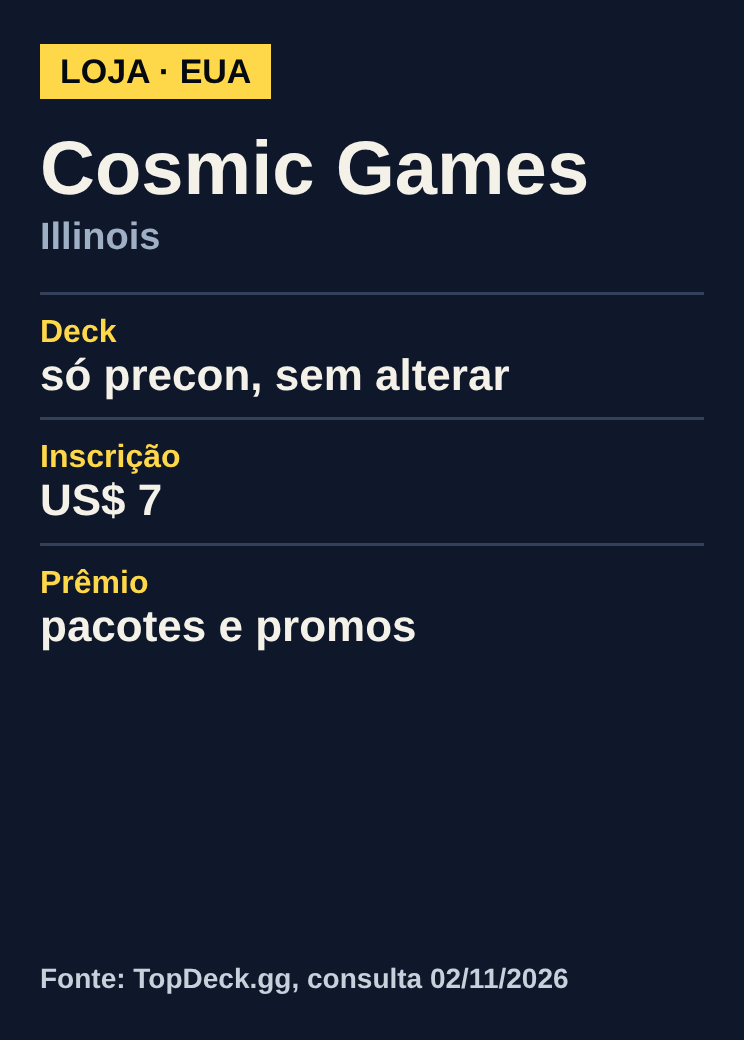
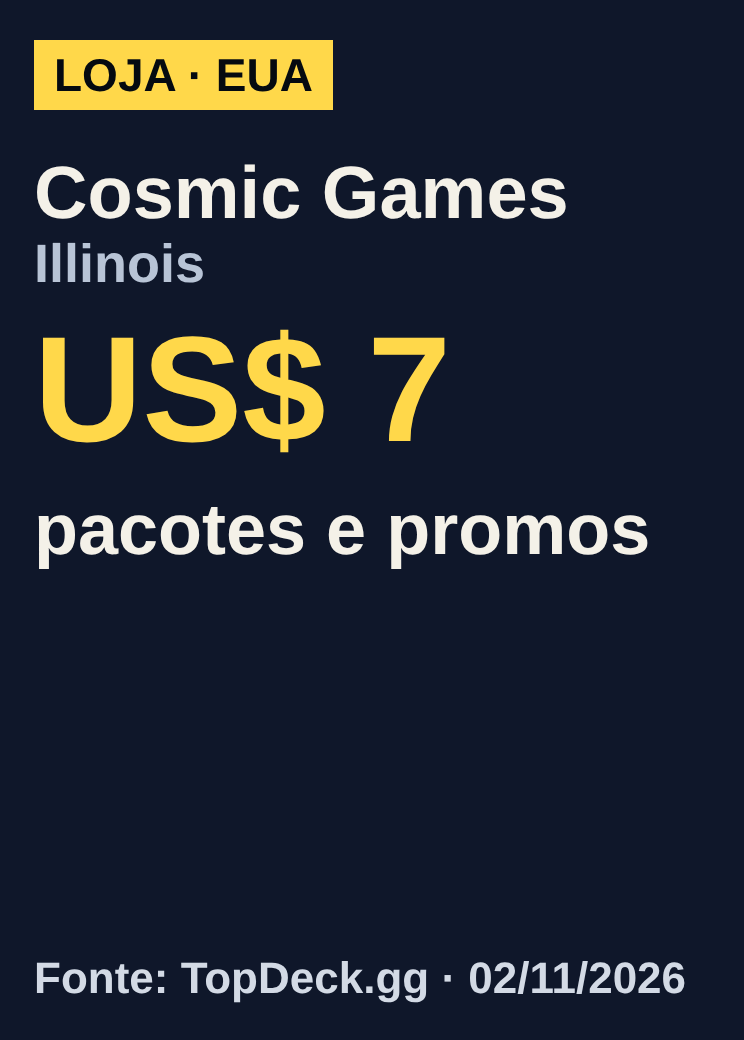
Mana & Burn: TV analógica BINDER e TV nunca cortada
Motor: chassis inteiro em todos os planos, sinal fora do ar animado e placa de fabricante.
Especial Precon em jogo: fichas refeitas e janelas fora do ar.

Claude-Session: https://claude.ai/code/session_016gdr9gR6rti7MxFj4rs6y7

diff --git a/manaburn/index.html b/manaburn/index.html
@@ -91,6 +91,33 @@ function staticSVG(cs,seed,uid){ if(!cs||cs.burst<=0) return '';
     <feComponentTransfer><feFuncR type="linear" slope="2.2" intercept="-0.55"/><feFuncG type="linear" slope="2.2" intercept="-0.55"/><feFuncB type="linear" slope="2.2" intercept="-0.5"/><feFuncA type="linear" slope="0" intercept="1"/></feComponentTransfer></filter></defs>
     <rect x="${X}" y="${Y}" width="${W}" height="${H}" fill="#222"/><rect x="${X}" y="${Y}" width="${W}" height="${H}" filter="url(#tvn${uid}${seed})"/>${bands}${osd}</g>`; }
 const CARD={x:742,y:554.6,w:136.3,h:190};
+// ---------- TV ANALÓGICA BINDER (manaburn/LEIA-ME.md): marca no chassis e sinal fora do ar ----------
+const TVLOGO=EP.tvLogo===undefined?'logo/binder_fabricante.png':EP.tvLogo; let LOGO_OK=false, LOGO_DONE=!TVLOGO;
+const NS={x:82,y:684,w:698,h:558,rx:58,W:349,H:279};           // vidro do CRT (coordenadas do plano da TV), um pouco para dentro da moldura
+const plateSVG=()=>LOGO_OK?`<g><rect x="926" y="694" width="92" height="92" rx="7" fill="#17130F" stroke="#8E8A7E" stroke-width="3"/><rect x="931" y="699" width="82" height="82" rx="5" fill="none" stroke="#000" stroke-opacity=".55" stroke-width="2"/><image href="${TVLOGO}" x="936" y="704" width="72" height="72" opacity=".92"/></g>`:'';
+const noiseSVG=(id)=>`<foreignObject x="${NS.x}" y="${NS.y}" width="${NS.w}" height="${NS.h}" id="nf${id}" style="display:none"><canvas xmlns="http://www.w3.org/1999/xhtml" id="nc${id}" width="${NS.W}" height="${NS.H}" style="display:block;width:${NS.w}px;height:${NS.h}px;border-radius:${NS.rx}px;image-rendering:auto"></canvas></foreignObject>`;
+function rng(a){ return ()=>{ a|=0; a=a+0x6D2B79F5|0; let t=Math.imul(a^a>>>15,1|a); t=t+Math.imul(t^t>>>7,61|t)^t; return ((t^t>>>14)>>>0)/4294967296; }; }
+const NSIMG={}; const nsCtx=c=>{ const x=c.getContext('2d'); return [x,NSIMG[c.id]||(NSIMG[c.id]=x.createImageData(NS.W,NS.H))]; };
+// quadro determinístico: só depende de t. Listras rolantes (velocidade contínua), estática, tracking de VHS, scanlines e fósforo.
+function noSignal(c,t,a){ const [x,im]=nsCtx(c), d=im.data, W=NS.W, H=NS.H, f=Math.round(t*30), r=rng(f*2654435761+7);
+  const flick=0.95+0.05*Math.sin(t*7.3)+0.03*Math.sin(t*19.1);
+  const B=[[0.19,46,70],[0.083,28,-38],[0.31,16,52]].map(([v,w,g],k)=>[((t*v+k*.37)%1)*(H+2*w)-w,w,g]);
+  const T=(t*0.11+.2)%1*H, T2=(t*0.047+.65)%1*H, jit=(r()<0.12?(r()-.5)*26:0);
+  for(let y=0;y<H;y++){ let g0=84; B.forEach(([b,w,g])=>{ const q=(y-b)/w; g0+=g*Math.exp(-q*q); });
+    const dT=Math.abs(y-T), dT2=Math.abs(y-T2), tear=dT<7?1-dT/7:(dT2<3?.6:0), sh=Math.round(tear*(10+r()*30)+jit*(dT<40?1:0)), sl=y%2?0.84:1;
+    const vy=(y/H-.5)*2, st=(r()-.5)*(tear?30:12);
+    for(let i=0;i<W;i++){ const i2=(i+sh+W)%W, vx=(i2/W-.5)*2, vig=1-.36*(vx*vx+vy*vy)*.5*(1+vx*vx*vy*vy);
+      let n=(r()-.5)*96+st; if(tear&&r()<.22*tear) n+=120; const v=Math.max(0,(g0+n)*flick*sl*vig), p=(y*W+i)*4;
+      d[p]=v; d[p+1]=v*.985; d[p+2]=v*.94; d[p+3]=255; } }
+  x.putImageData(im,0,0); c.style.opacity=a; }
+// janelas fora do ar: EP.foraDoAr=[[fala_ini,fala_fim],...] (0-based) e, sem nada para mostrar, o ecrã inteiro
+function foraAlpha(t,i,cs){ const T=EP.foraDoAr; if(t>=T_SLAM+.44) return 0;
+  if(T){ const w=T.find(q=>i>=q[0]&&i<=q[1]); if(w){ const t0=LINES[w[0]].start; return clamp((t-t0)/0.3); } return 0; }
+  return (cs?!cs.img:!EP.card.img)?1:0; }
+function drawFora(t,i,cs,tvs){ const a=(cs&&cs.burst>0)?0:foraAlpha(t,i,cs), id=tvs?'S':'W', o=tvs?'W':'S';
+  const f=document.getElementById('nf'+id), g=document.getElementById('nf'+o); if(g) g.style.display='none';
+  if(!tvs){ const sc=document.getElementById('smallcard'); if(sc) sc.style.opacity=1-a; }
+  if(!f) return; if(a<=0){ f.style.display='none'; return; } f.style.display=''; noSignal(document.getElementById('nc'+id),t,a); }
 const K='#221C17';
 const S=(a)=>`stroke="${K}" stroke-width="${a||4.5}" stroke-linejoin="round" stroke-linecap="round"`;
 function tube(pts,col,w,ol=9){const d='M'+pts.map(p=>p.join(' ')).join(' L ');
@@ -442,6 +469,7 @@ function shot2Markup(st){
   ${st.cs&&st.cs.est?'':tvFX(st.fx,'s2')}
   ${(st.cs?st.cs.img:EP.card.img)?`<image href="${st.cs?st.cs.img:EP.card.img}" x="245" y="703" width="373" height="520" clip-path="url(#cardclip2)"/>`:''}
   ${st.hl>0&&st.hr?st.hr.rects.map(r=>`<rect x="${r.x-3}" y="${r.y-2}" width="${r.w+6}" height="${r.h+4}" rx="4" fill="none" stroke="#FFD84A" stroke-width="2.5" filter="url(#glow)" pathLength="100" stroke-dasharray="${100*st.hl} 100"/>`).join(""):""}
+  ${plateSVG()}
   ${staticSVG(st.cs,st.seed,'s')}
   <g filter="url(#rough2)">
    ${tube([[1100,1005],[1010,985],[920,969]],'#A4473B',58)}
@@ -451,9 +479,9 @@ function shot2Markup(st){
 // ---------- montagem ----------
 const world=document.getElementById('world'), shot2=document.getElementById('shot2'), fx=document.getElementById('fx');
 const tvEl=document.getElementById('tv'), dotEl=document.getElementById('dot'), logo=document.getElementById('logo'), sub=document.getElementById('sub');
-world.innerHTML = defs + `<g id="cam"><g filter="url(#rough)">${room}</g>${tvSmall}<g filter="url(#rough)">${tvSmallLine}${tvTop}</g><g id="tvfx" transform="translate(648.95 290.47) scale(0.373)"></g>${tvSmallCard}<g filter="url(#rough)">${couchBack}${couchFront}</g>
+world.innerHTML = defs + `<g id="cam"><g filter="url(#rough)">${room}</g>${tvSmall}<g filter="url(#rough)">${tvSmallLine}${tvTop}</g><g transform="translate(648.95 290.47) scale(0.373)"><g id="plateW"></g><g id="tvfx"></g>${noiseSVG('W')}</g>${tvSmallCard}<g filter="url(#rough)">${couchBack}${couchFront}</g>
   <g id="mana" filter="url(#rough2)"></g><g id="burn" filter="url(#rough2)"></g><g filter="url(#rough)">${table}</g></g>`;
-shot2.innerHTML = defs + '<g id="s2cam"><g id="s2"></g></g>';
+shot2.innerHTML = defs + `<g id="s2cam"><g id="s2"></g>${noiseSVG('S')}</g>`;
 fx.innerHTML = `<defs><radialGradient id="vig" cx="50%" cy="48%" r="70%"><stop offset="60%" stop-color="#000" stop-opacity="0"/><stop offset="100%" stop-color="#000" stop-opacity=".45"/></radialGradient></defs>
   ${defs}<rect width="1080" height="1920" filter="url(#grain)" opacity=".5"/><rect width="1080" height="1920" fill="url(#vig)"/>`;
 const tvfxG=world.querySelector('#tvfx');
@@ -471,7 +499,8 @@ const credEl=document.getElementById('cred'), CRED_BASE=EP.card.cred;
 if(EP.bug) document.querySelector('#bug .b').textContent=EP.bug;   // tarja do quadro: "PLANTÃO DO PREÇO", "ESPECIAL DE HALLOWEEN"…
 INSERTS.forEach((c,i)=>{const im=new Image(); im.onload=()=>{INS_OK[i]=true;}; im.onerror=()=>{INS_OK[i]=false;}; im.src=c.file; c.el=document.createElement('img'); c.el.src=c.file; insEl.appendChild(c.el);});
 {const g=new Image(); g.onload=()=>{document.getElementById('gplay').style.display='block';}; g.src='cards/google_play.png';}
-window.READY=()=>INSERTS.every((c,i)=>i in INS_OK) && (!(FX.scanner&&SCAN) || [...Array(SCAN_N).keys()].every(k=>k in SCAN_OK));
+if(TVLOGO){ const im=new Image(); im.onload=()=>{ LOGO_OK=true; LOGO_DONE=true; document.getElementById('plateW').innerHTML=plateSVG(); last=''; }; im.onerror=()=>{ LOGO_DONE=true; }; im.src=TVLOGO; }
+window.READY=()=>LOGO_DONE && INSERTS.every((c,i)=>i in INS_OK) && (!(FX.scanner&&SCAN) || [...Array(SCAN_N).keys()].every(k=>k in SCAN_OK));
 const TVSHOTS=['tv','tvtext','tvtext2','tv2'];
 // enquadramento dos planos da TV: a tela da TV (x 79–783) nunca sai do vídeo nas laterais nem sobe por baixo dos créditos
 const SCR={x:79,y:682,w:704,h:562}, MARG=10, FIT=(1080-2*MARG)/SCR.w;   // FIT ≈ 1,506: tela inteira na largura, com margem
@@ -479,16 +508,10 @@ function encaixa(c){ const s=Math.min(c.s,FIT); let cx=c.cx;
   const L=c.tx+s*(SCR.x-cx), R=c.tx+s*(SCR.x+SCR.w-cx);
   if(L<MARG) cx=SCR.x-(MARG-c.tx)/s; else if(R>1080-MARG) cx=SCR.x+SCR.w-(1080-MARG-c.tx)/s;
   return {s, cx, cy:c.cy, tx:c.tx, ty:c.ty}; }
-function s2Target(k,t){ const sh=POSE[k][6], l=LINES[k], p=clamp((t-l.start)/Math.max(.5,l.dur));
-  // zoom no texto: a tela inteira da TV ocupa a largura do vídeo (carta e TV SAL sem cortes), logo abaixo dos créditos
-  const HR=hlAt(k,sh); if(HR) { const r=HR, z=Math.min(r.zoom,FIT), c={s:z,cx:SCR.x+SCR.w/2,cy:SCR.y,tx:540,ty:300};
-    if(!FX.foco) return c;
-    // oracle_focus: quando o amarelo acende, aproxima devagar 7% (ease-out) e TERMINA no enquadramento acima:
-    // começa em z/1,07 e chega em z, com o topo da TV parado logo abaixo dos créditos. Nada sai pelas laterais.
-    const q=clamp((t-l.start-0.45)/Math.max(1.2,l.dur-0.45)), f=1+0.07*(1-Math.pow(1-q,3));
-    return {s:z/1.07*f, cx:c.cx, cy:c.cy, tx:c.tx, ty:c.ty}; }
-  if(sh==='tv2') return {s:1.12+0.04*p,cx:560,cy:963,tx:540,ty:960};
-  return {s:1+0.06*p,cx:432,cy:963,tx:432,ty:963}; }
+// REGRA DO FUNDADOR (02/11/2026): é proibido cortar a TV. O chassis inteiro (x -24 a 1102) cabe no vídeo em todos os planos da TV;
+// não há zoom na carta nem no texto (EP.hl continua a desenhar os destaques, o campo zoom é ignorado).
+const TV_S=(1080-2*MARG)/1126, TV_C={cx:539,cy:966,tx:540,ty:872};
+function s2Target(k,t){ const l=LINES[k], p=clamp((t-l.start)/Math.max(.5,l.dur)); return {s:TV_S*(0.975+0.025*p),...TV_C}; }
 function s2Cam(i,t){ let c=s2Target(i,t); const l=LINES[i];
   if(i>0 && TVSHOTS.includes(POSE[i-1][6]) && t-l.start<0.4){ const a=s2Target(i-1,l.start), q=ease(clamp((t-l.start)/0.4));
     c={s:a.s+(c.s-a.s)*q,cx:a.cx+(c.cx-a.cx)*q,cy:a.cy+(c.cy-a.cy)*q,tx:a.tx+(c.tx-a.tx)*q,ty:a.ty+(c.ty-a.ty)*q}; }
@@ -504,10 +527,10 @@ function blinking(arr,t){return arr.some(b=>t>=b&&t<b+0.12);}
 function camera(t,shot){
   const W={s:1,cx:540,cy:675,tx:540,ty:875};
   if(shot==='cuM') return {s:1.45,cx:235,cy:650,tx:520,ty:922};
-  if(shot==='cuB') return {s:1.5,cx:485,cy:700,tx:560,ty:832};
+  if(shot==='cuB') return {s:1.16,cx:485,cy:700,tx:404,ty:812};   // TV inteira no quadro (fundador, 02/11/2026)
   if(shot==='push'){ const i0=lineAt(t); let s0=i0, s1=i0; while(s0>0&&POSE[s0-1][6]==='push') s0--; while(s1<LINES.length-1&&POSE[s1+1][6]==='push') s1++;
     const a=LINES[s0].start, b=LINES[s1].start+LINES[s1].dur, p=clamp((t-a)/(b-a));
-    const P={s:1.12,cx:400,cy:760,tx:540,ty:1003}; return {s:W.s+(P.s-W.s)*p,cx:W.cx+(P.cx-W.cx)*p,cy:W.cy+(P.cy-W.cy)*p,tx:W.tx,ty:W.ty+(P.ty-W.ty)*p}; }
+    const P={s:1.03,cx:540,cy:760,tx:540,ty:960}; return {s:W.s+(P.s-W.s)*p,cx:W.cx+(P.cx-W.cx)*p,cy:W.cy+(P.cy-W.cy)*p,tx:W.tx,ty:W.ty+(P.ty-W.ty)*p}; }
   return W;
 }
 let last='';
@@ -529,6 +552,7 @@ function render(t){
       manaG.innerHTML = manaHeadBack()+manaLegs()+manaTorso()+manaHead({look:P[3],brow:P[5],mouth:mM,blink:bM,bob:bobM})+manaArms(P[1],clickOn);
       burnG.innerHTML = burnLegs()+burnTorso()+burnHead({look:P[2],brow:P[4],mouth:mB,blink:bB,bob:bobB})+burnArms(P[0]); }
   }
+  drawFora(t,i,cs,TVSHOTS.includes(shot));
   if(TVSHOTS.includes(shot)){ const q=s2Cam(i,t); s2cam.setAttribute('transform',`translate(${q.tx} ${q.ty}) scale(${q.s}) translate(${-q.cx} ${-q.cy})`); }
   // cartas citadas entram ao lado do Q
   let extra='';

diff --git a/especiais/precon_em_jogo/episode.js b/especiais/precon_em_jogo/episode.js
@@ -6,6 +6,8 @@ const EP = {
   outro: { assinatura: 'Escaneie suas cartas e organize seus decks.' },
   card: { img: 'esp/slides/comu.png', cred: 'Conteúdo de fã não oficial.' },
   quadro: [[0,'neutro'],[3,'desconfiado'],[7,'indignado'],[9,'admirado'],[11,'indignado'],[15,'desconfiado'],[18,'neutro']],
+  foraDoAr: [[1,1],[4,6],[8,8],[10,10],[12,14],[16,19]],
+  tvLogo: 'logo/binder_fabricante.png',
   clip: { t0: 0.3, n: 99 },
   subPre: [[0.3,1.6,'*TUBO:* Commander, por diversão.'],[1.6,3.7,'*TUBO:* Fora do meu arquivo, não da minha atenção.']],
   comu: [ {line:2, px:42, q:'Tem que começar a calcular os eventos que envolvem Commander Precon.'},
@@ -13,10 +15,10 @@ const EP = {
   canais: [
     { de: 0, img: 'esp/clip/099.jpg', ch: 3, cred: 'Na TV: trecho original de Meta em Curto · EP03.' },
     { de: 2, img: 'esp/slides/comu.png', ch: 4, cred: 'Comentários reais de @diegoalencard no @binderthetrade.' },
-    { de: 7, hl: { tvtext: { rects: [[0.054, 0.578, 0.506, 0.047]], zoom: 1.5 } }, img: 'esp/slides/cosmic.png', ch: 5, cred: 'Exemplo de loja. Não vale como regra geral.' },
-    { de: 9, hl: { tvtext: { rects: [[0.054, 0.578, 0.388, 0.047]], zoom: 1.5 } }, img: 'esp/slides/laluna.png', ch: 6, cred: 'Evento de 11/04/2026. Prêmios anunciados pelo organizador.' },
-    { de: 11, hl: { tvtext: { rects: [[0.054, 0.578, 0.774, 0.047]], zoom: 1.5 } }, img: 'esp/slides/grande.png', ch: 7, cred: 'Tix: unidade de prêmio do evento. Grade do CommandFest SP (CCG Eventos).' },
-    { de: 15, hl: { tvtext: { rects: [[0.054, 0.457, 0.861, 0.047]], zoom: 1.5 } }, img: 'esp/slides/painel.png', ch: 8, cred: 'Commander Brackets, atualização de 21/10/2025.' },
+    { de: 7, hl: { tvtext: { rects: [[0.046, 0.465, 0.828, 0.088]], zoom: 1 } }, img: 'esp/slides/cosmic.png', ch: 5, cred: 'Exemplo de loja. Não vale como regra geral.' },
+    { de: 9, hl: { tvtext: { rects: [[0.046, 0.465, 0.634, 0.088]], zoom: 1 } }, img: 'esp/slides/laluna.png', ch: 6, cred: 'Evento de 11/04/2026. Prêmios anunciados pelo organizador.' },
+    { de: 11, hl: { tvtext: { rects: [[0.046, 0.463, 0.622, 0.088]], zoom: 1 } }, img: 'esp/slides/grande.png', ch: 7, cred: 'Tix: unidade de prêmio do evento. Grade do CommandFest SP (CCG Eventos).' },
+    { de: 15, hl: { tvtext: { rects: [[0.046, 0.382, 0.909, 0.164]], zoom: 1 } }, img: 'esp/slides/painel.png', ch: 8, cred: 'Commander Brackets, atualização de 21/10/2025.' },
   ],
   pose: [
     ['point_tv','x','screen','x','angry','x','tv'],              // 1 B Fora do arquivo

diff --git a/especiais/precon_em_jogo/slides.py b/especiais/precon_em_jogo/slides.py
@@ -1,24 +1,24 @@
 from playwright.sync_api import sync_playwright
-import pathlib
+import json
+# fichas para a tela da TV sem zoom (regra de 02/11/2026): texto grande, poucas linhas
 S={
-'cosmic':('LOJA · EUA','Cosmic Games','Illinois',[('Deck','só precon, sem alterar'),('Inscrição','US$ 7'),('Prêmio','pacotes e promos')],'Fonte: TopDeck.gg, consulta 02/11/2026'),
-'laluna':('LOJA · ESPANHA','Laluna','Premià de Mar · 11/04/2026',[('Deck','precon sem alterar'),('Inscrição','€ 12'),('1.º lugar','Mox Diamond'),('Base','100 jogadores; prêmio pode mudar')],'Fonte: TopDeck.gg, consulta 02/11/2026'),
-'grande':('FORA DA LOJA','Gen Con 2026','+ CommandFest SP',[('Gen Con','PreCon Battle: precon aleatório'),('SP','Precon Clash: lista sem alterar'),('Prêmio SP','partic. 10 Tix · vitória 20 Tix')],'Fontes: Gamertag Mythras; CCG Eventos, consulta 02/11/2026'),
-'painel':('O OUTRO LADO','Precon é igual?','Painel do Commander',[('Dito em','21/10/2025'),('Ideia','precons variam muito de força')],'Fonte: Wizards of the Coast'),
+'cosmic':('LOJA · EUA',[('n','Cosmic Games'),('s','Illinois'),('b','US$ 7'),('h','pacotes e promos')],'Fonte: TopDeck.gg · 02/11/2026'),
+'laluna':('LOJA · ESPANHA',[('n','Laluna'),('s','11/04/2026'),('b','€ 12'),('h','Mox Diamond'),('s','base: 100 jogadores')],'Fonte: TopDeck.gg · 02/11/2026'),
+'grande':('FORA DA LOJA',[('n','Gen Con 2026'),('s','precon aleatório'),('n','CommandFest SP'),('s','Precon Clash'),('h','vitória: 20 Tix')],'Fontes: Gamertag Mythras · CCG Eventos'),
+'painel':('O OUTRO LADO',[('n','Painel do Commander'),('s','21/10/2025'),('h','precons variam muito de força')],'Fonte: Wizards of the Coast'),
 }
-H='''<!doctype html><style>@font-face{font-family:Geist;src:local(Geist)}*{box-sizing:border-box}body{margin:0;width:744px;height:1040px;background:#0F172A;color:#F4F1E8;font-family:Geist,Arial,sans-serif;padding:44px 40px;display:flex;flex-direction:column}
-.t{align-self:flex-start;background:#FFD84A;color:#050A10;font:800 34px Arial;padding:8px 20px}h1{font:800 76px/1.02 Arial;margin:30px 0 8px}h2{font:600 38px Arial;color:#9FB0C6;margin:0 0 34px}
-.r{border-top:3px solid #33415A;padding:18px 0}.r b{display:block;font:700 32px Arial;color:#FFD84A}.r span{font:700 44px/1.13 Arial}.f{margin-top:auto;font:600 28px/1.2 Arial;color:#C8D0DC}</style>'''
+H='''<!doctype html><meta charset=utf-8><style>*{box-sizing:border-box}body{margin:0;width:744px;height:1040px;background:#0F172A;color:#F4F1E8;padding:40px 34px 36px;display:flex;flex-direction:column;font-family:Arial,sans-serif}
+.t{align-self:flex-start;background:#FFD84A;color:#050A10;font:800 46px Arial;padding:8px 20px;margin-bottom:34px}
+.n{font:800 74px/1.06 Arial;margin-top:10px}.s{font:700 54px/1.15 Arial;color:#B8C4D6;margin-bottom:12px}.b{font:800 150px/1.1 Arial;color:#FFD84A}.h{font:800 72px/1.1 Arial;margin-top:12px;padding:6px 0;align-self:flex-start}
+.f{margin-top:auto;font:700 44px/1.15 Arial;color:#D3DAE5}</style>'''
 HL={}
 with sync_playwright() as p:
     b=p.chromium.launch();pg=b.new_page(viewport={'width':744,'height':1040})
-    for k,(t,h,s,rows,f) in S.items():
-        pg.set_content(H+f"<div class=t>{t}</div><h1>{h}</h1><h2>{s}</h2>"+''.join(f"<div class=r><b>{a}</b><span>{c}</span></div>" for a,c in rows)+f"<div class=f>{f}</div>")
+    for k,(t,rows,f) in S.items():
+        pg.set_content(H+f"<div class=t>{t}</div>"+''.join(f"<div class={c}>{x}</div>" for c,x in rows)+f"<div class=f>{f}</div>")
+        print(k,pg.evaluate("document.documentElement.scrollHeight"))
+        HL[k]=pg.evaluate("[...document.querySelectorAll('.h')].map(e=>{const b=e.getBoundingClientRect();return [b.x/744,b.y/1040,b.width/744,b.height/1040]})[0]")
         pg.screenshot(path=f'esp/slides/{k}.png')
-        r=pg.evaluate("[...document.querySelectorAll('.r')].map(e=>{const b=e.querySelector('span').getBoundingClientRect();return [b.x/744,b.y/1040,b.width/744,b.height/1040]})")
-        HL[k]=r; print(k,pg.evaluate("document.documentElement.scrollHeight"))
-    # capa de comunidade na TV
-    pg.set_content(H+"<div class=t>COMENTÁRIOS</div><h1>A comunidade falou</h1><h2>Commander Precon</h2>")
+    pg.set_content(H+"<div class=t>COMENTÁRIOS</div><div class=n>A comunidade falou</div><div class=s>Commander Precon</div>")
     pg.screenshot(path='esp/slides/comu.png'); b.close()
-
-import json;json.dump(HL,open('esp/slides/hl.json','w'))
+json.dump(HL,open('esp/slides/hl.json','w'))

diff --git a/especiais/precon_em_jogo/patch.py b/especiais/precon_em_jogo/patch.py
@@ -3,7 +3,7 @@ h=open('index.html',encoding='utf8').read()
 a=h.index('<!-- quadro torto com vidro rachado -->'); b=h.index('${fan}',a)
 h=h[:a]+"${EP.quadro?'':`"+h[a:b]+"`}\n "+h[b:]
 frame='<g transform="rotate(-2 372 420)"><path d="M372 318 L340 346 M372 318 L404 346" stroke="#2A2218" stroke-width="3"/><circle cx="372" cy="316" r="5" fill="#555"/><rect x="296" y="342" width="152" height="166" fill="#5A3A1E" stroke="#1B1B1B" stroke-width="5"/><rect x="304" y="350" width="136" height="150" fill="none" stroke="#B8934A" stroke-width="4"/><image id="condeimg" href="esp/conde/neutro.png" x="312" y="358" width="120" height="134" preserveAspectRatio="xMidYMid slice"/></g>'
-k='<g id="tvfx" transform="translate(648.95 290.47) scale(0.373)"></g>'
+k="<g id=\"tvfx\"></g>${noiseSVG('W')}</g>"
 assert k in h; h=h.replace(k,k+"${EP.quadro?`"+frame+"`:''}")
 # 2. render: expressão do quadro, frame do clip, cartão da comunidade, legenda do trecho
 k="function render(t){\n  const i=Math.max(0,lineAt(t)), P=POSE[i], tq=Math.floor(t*12)/12, shot=P[6];"
@@ -31,13 +31,15 @@ assert k in h
 h=h.replace(k,"""if(EP.comu){ const o=document.createElement('div'); o.id='comu'; o.innerHTML='<div class="tag">A COMUNIDADE FALOU</div><div class="row"><img src="esp/diego.png"><div><b>@diegoalencard</b><span>comentou no @binderthetrade</span></div></div><p></p>'; document.getElementById('stage').appendChild(o); }
 """+k,1)
 open('index.html','w',encoding='utf8').write(h)
-p=open('process.py',encoding='utf8').read()
-k="t = 0.35; lines = []"; assert k in p
-p=p.replace(k,"t = EPI.get('inicio', 0.35); lines = []")
-k="mix = m * g[:, None] + voice[:, None] + fxt"; assert k in p
-p=p.replace(k,k+"""
-if EPI.get('clip'):      # trecho original do TUBO na TV (som original, sem regenerar voz)
-    w_ = wave.open(EPI['clip']['wav']); c_ = np.frombuffer(w_.readframes(w_.getnframes()), '<i2').astype(np.float32).reshape(-1, 2) / 32768
-    c_ = c_ / (np.max(np.abs(c_)) + 1e-9) * EPI['clip'].get('nivel', 0.8); c_[-int(.05*SR):] *= np.linspace(1, 0, int(.05*SR))[:, None]
-    a_ = int(EPI['clip']['t0'] * SR); mix[a_:a_ + len(c_)] += c_""")
-open('process.py','w',encoding='utf8').write(p)
+import os
+if "EPI.get('inicio'" not in open('process.py',encoding='utf8').read():
+    p=open('process.py',encoding='utf8').read()
+    k="t = 0.35; lines = []"; assert k in p
+    p=p.replace(k,"t = EPI.get('inicio', 0.35); lines = []")
+    k="mix = m * g[:, None] + voice[:, None] + fxt"; assert k in p
+    p=p.replace(k,k+"""
+    if EPI.get('clip'):      # trecho original do TUBO na TV (som original, sem regenerar voz)
+        w_ = wave.open(EPI['clip']['wav']); c_ = np.frombuffer(w_.readframes(w_.getnframes()), '<i2').astype(np.float32).reshape(-1, 2) / 32768
+        c_ = c_ / (np.max(np.abs(c_)) + 1e-9) * EPI['clip'].get('nivel', 0.8); c_[-int(.05*SR):] *= np.linspace(1, 0, int(.05*SR))[:, None]
+        a_ = int(EPI['clip']['t0'] * SR); mix[a_:a_ + len(c_)] += c_""")
+    open('process.py','w',encoding='utf8').write(p)

diff --git a/manaburn/bordas.py b/manaburn/bordas.py
@@ -7,11 +7,14 @@ with sync_playwright() as p:
     pg.goto(pathlib.Path('index.html').resolve().as_uri()); pg.evaluate('document.fonts.ready'); pg.wait_for_timeout(300)
     pg.wait_for_function('window.READY()')
     for i in range(int(d['T_SLAM'] * 30)):
-        r = pg.evaluate(f"""(()=>{{ render({i / 30}); if(document.getElementById('shot2').style.display!=='block') return null;
-          const m=document.getElementById('s2cam').getAttribute('transform').match(/translate\\(([-\\d.]+) ([-\\d.]+)\\) scale\\(([-\\d.]+)\\) translate\\(([-\\d.]+) ([-\\d.]+)\\)/);
-          const [tx,ty,s,cx,cy]=m.slice(1).map(Number); return [tx+s*(79+cx), tx+s*(783+cx), ty+s*(682+cy)]; }})()""")
-        if r: pts.append(r)
+        r = pg.evaluate(f"""(()=>{{ render({i / 30}); const tv=document.getElementById('shot2').style.display==='block';
+          const m=document.getElementById(tv?'s2cam':'cam').getAttribute('transform').match(/translate\\(([-\\d.]+) ([-\\d.]+)\\) scale\\(([-\\d.]+)\\) translate\\(([-\\d.]+) ([-\\d.]+)\\)/);
+          const [tx,ty,s,cx,cy]=m.slice(1).map(Number); const X=x=>tx+s*(x+cx), Y=y=>ty+s*(y+cy);
+          return tv?[X(-24),X(1102),Y(610),Y(1323),1]:[X(640),X(1060),Y(518),Y(784),0]; }})()""")
+        pts.append(r)
     b.close()
-l, rr, top = min(x[0] for x in pts), max(x[1] for x in pts), min(x[2] for x in pts)
-print(f'{len(pts)} quadros de TV · laterais entre {l:.0f} e {rr:.0f} px · topo da TV a partir de {top:.0f} px')
-print('OK' if l >= 0 and rr <= 1080 and top >= 295 else 'FALHA')
+# regra: é proibido cortar a TV. Em cada quadro, o chassis inteiro está dentro do vídeo ou totalmente fora dele.
+ruim = [p for p in pts if not ((p[0] >= 0 and p[1] <= 1080) or p[0] >= 1080 or p[1] <= 0)]
+tv = [p for p in pts if p[4]]
+print(f'{len(pts)} quadros · {len(tv)} de TV · chassis nos planos da TV entre {min(p[0] for p in tv):.0f} e {max(p[1] for p in tv):.0f} px · quadros com TV cortada: {len(ruim)}')
+print('OK' if not ruim and min(p[2] for p in tv) >= 295 else 'FALHA')

diff --git a/especiais/precon_em_jogo/testes_tv.py b/especiais/precon_em_jogo/testes_tv.py
@@ -1,0 +1,14 @@
+# Testes da TV analógica: quadros consecutivos diferentes, determinismo, limite do vidro. Uso: python3 esp/testes_tv.py (na pasta do kit)
+from playwright.sync_api import sync_playwright
+import pathlib,hashlib
+JS="(t)=>{render(t);const c=document.getElementById(document.getElementById('shot2').style.display==='block'?'ncS':'ncW');return c.toDataURL()}"
+with sync_playwright() as p:
+    b=p.chromium.launch();pg=b.new_page(viewport={'width':1080,'height':1920})
+    pg.goto(pathlib.Path('index.html').resolve().as_uri());pg.wait_for_timeout(500);pg.wait_for_function('window.READY()')
+    h=[hashlib.md5(pg.evaluate(JS,22+i/30).encode()).hexdigest() for i in range(30)]
+    print('30 quadros consecutivos, distintos:',len(set(h)))
+    print('determinístico:',hashlib.md5(pg.evaluate(JS,22+3/30).encode()).hexdigest()==h[3] and hashlib.md5(pg.evaluate(JS,22+17/30).encode()).hexdigest()==h[17])
+    import time;s=time.time()
+    for i in range(60): pg.evaluate(JS,30+i/30)
+    print('ms por quadro (com toDataURL):',round((time.time()-s)/60*1000))
+    b.close()

diff --git a/manaburn/LEIA-ME.md b/manaburn/LEIA-ME.md
@@ -53,9 +53,19 @@ Python 3 (numpy, scipy, Pillow, playwright com Chromium, num2words) e ffmpeg.
 - Já estavam no v2 e faltaram no Giro: TV a desligar até ao ponto verde da logo (P1-9) e o braço do Burn a apontar a TV nos planos de TV (P1-2); nos planos do sofá a TV fica inteira no quadro (D-1).
 - Testado com o Ep. 2: `bordas.py` OK (490 quadros de TV, laterais entre 10 e 1068 px, topo a 300 px) e prévias a 1,5 · 13 · 16,5 · 22 · 30 · 36,95 · 38,3 s.
 
+## TV ANALÓGICA BINDER — PADRÃO VISUAL
+
+Regra do fundador (02/11/2026): **é proibido cortar a TV.** Em cada quadro o chassis inteiro está dentro do vídeo ou totalmente fora dele. `bordas.py` confere quadro a quadro, incluindo os planos da sala. Não há zoom na carta nem no texto: o campo `zoom` de `EP.hl` é ignorado e os destaques amarelos continuam a funcionar.
+
+- **Planos:** `tv`, `tvtext`, `tvtext2`, `tv2`: chassis inteiro (10 a 1070 px). `cuB`: mais aberto, TV inteira à direita. `cuM`: TV fora do quadro. `push`: aproximação limitada a 1,03. Texto na tela da TV precisa de ser grande (carta real entra inteira, fichas próprias em fonte ≥ 44 px no PNG de 744 px).
+- **Marca no chassis:** placa de fabricante no topo da grelha do altifalante (coordenadas do plano da TV: x 926–1018, y 694–786), a mesma nos dois enquadramentos. Ficheiro: `logo/binder_fabricante.png` (ou `EP.tvLogo`; `null` desliga). Sem o ficheiro a placa não aparece e nada é inventado.
+- **Fora do ar:** `noSignal(canvas, t, alfa)` em `index.html`. Desenha num canvas dentro de um `foreignObject` recortado ao vidro do CRT (`NS`, cantos de 58). Depende só de `t` (determinístico, 30 fps): listras rolantes com velocidades contínuas, estática, tracking de VHS, scanlines e oscilação de fósforo, em cinzento.
+- **Estados:** (1) ligada sem conteúdo: interferência no ecrã inteiro, nas falas de `EP.foraDoAr=[[ini,fim],...]` (0-based) ou quando não há imagem nenhuma; (2) conteúdo: a camada fica oculta, carta e TV SAL limpas; (3) transição: a interferência entra em 0,3 s sobre o conteúdo; o zapping (`staticSVG`) é outro efeito e tem prioridade; (4) desligar: sequência original, intocada.
+- **Compatibilidade:** episódios sem `foraDoAr` funcionam como antes; os publicados não se renderizam de novo. Só Mana & Burn.
+
 ## Regras que valem para todo episódio
 
 - Carta real, inteira, rodapé visível, nada por cima. Crédito: "Na TV: {carta} ({coleção}, {ano}), nº {n}. Arte: {artista}. © Wizards of the Coast."
-- A tela inteira da TV cabe sempre na largura do vídeo (zoom máximo ≈1,506, margem de 10 px); `bordas.py` confere.
+- A tela inteira da TV cabe sempre na largura do vídeo (sem zoom, chassis inteiro, margem de 10 px); `bordas.py` confere.
 - Medidor só com dado real e fonte na tela. Bloco do scanner só com gravação real do app.
 - Duração livre (constituição §6).

diff --git a/nucleo/DECISOES.md b/nucleo/DECISOES.md
@@ -2,6 +2,12 @@
 
 Uma entrada por alteração de regra: data · o quê · porquê · impacto. Mais recente no topo.
 
+## 02/11/2026 · TV analógica BINDER e proibição de cortar a TV (Mana & Burn)
+
+**O quê:** a televisão da série Mana & Burn passa a incorporar a marca BINDER no chassis, como identificação de fabricante de um televisor antigo, e um ecrã analógico fora do ar com interferência animada sempre que estiver ligada sem conteúdo. O comportamento passa a ser padrão do motor da série. É proibido cortar a TV em qualquer plano (fundador, 02/11/2026, 19:03): sem zoom na tela e com o chassis inteiro no quadro.
+**Porquê:** pedido explícito do fundador para dar à televisão uma identidade visual própria e recorrente, reforçando a ligação da marca ao cenário sem ocupar a área de conteúdo transmitido.
+**Impacto:** motor reutilizável, episódios futuros de Mana & Burn e documentação técnica. Não altera outras frentes, episódios publicados, TV SAL, cartas ou fecho oficial. A regra anterior (só a tela inteira, zoom até 1,5) deixa de valer.
+
 ## 02/11/2026 · Especial "Precon em jogo": seguidor na tela e quadro do Conde
 
 **O quê:** o fundador autorizou (02/11, 18:16) usar a foto de @diegoalencard e os seus comentários no especial `especiais/precon_em_jogo/`. Retrato do Conde na sala como detalhe visual silencioso, só neste especial. Trecho original do TUBO na TV. Autorizou a produção imediata às 18:28.

diff --git a/especiais/precon_em_jogo/ficha.md b/especiais/precon_em_jogo/ficha.md
@@ -18,6 +18,7 @@
 - Kit: v2 com `patch.py` (opções EP.quadro, EP.comu, EP.clip, EP.subPre, "inicio" e "clip"); `slides.py` gera as fichas da TV. Áudio final: `_mix.wav` com loudnorm I=-14,3 TP=-2,5.
 - Quadro do Conde, por fala: 2 neutro · 5–7 desconfiado · 9 indignado · 11 admirado · 13–15 indignado · 17–18 desconfiado · 19–20 neutro. Assets oficiais de `conde/assets/`, sem animação, sem som.
 - Medidor: Comentômetro 100% ("1 comentário virou 1 episódio"), dado real do próprio episódio; sem Salt Score.
+- v2 (02/11, 19:03): TV sem corte em todos os planos, sem zoom; fichas refeitas com texto grande; fora do ar nas falas 2, 5–7, 9, 11, 13–15 e 17–20. Áudio, falas e montagem iguais. `patch.py` passou a aplicar-se sobre o motor novo.
 - Easter egg: o quadro. Registado em `comum/easter_eggs.md`.
 
 ## Riscos e limitações
@@ -25,6 +26,8 @@
 - CommandFest SP: páginas da CCG Eventos sem ano e valor 35,00 sem moeda; "Precon Clash - Foiled!" da grade pode ter regras próprias. Prêmio citado é o da tabela Sob Demanda. O que é Tix não é explicado na página.
 - Sem exemplo brasileiro de loja verificado. Gen Con com fonte secundária única.
 - Não houve audição humana: pronúncia conferida por transcrição (Scribe), que devolveu o texto esperado.
+
+- Placa BINDER: ausente na v2; aguarda o ficheiro oficial (`manaburn/logo/binder_fabricante.png`).
 
 ## Fontes
 `fontes.md`.

diff --git a/especiais/precon_em_jogo/qc.md b/especiais/precon_em_jogo/qc.md
@@ -4,3 +4,10 @@
 `bordas.py`: OK (laterais entre 10 e 1068 px, topo a 300 px; medido na render final).
 A olho, em quadros reais do ficheiro final: trecho do TUBO sincronizado com a legenda; cartões da comunidade legíveis; fichas com TV inteira e sem corte lateral; quadro do Conde presente nos planos de sala; expressões alternadas; fecho sem sobreposição.
 Não conferido: audição humana da mistura.
+
+## v2 (02/11/2026, TV sem corte e fora do ar)
+qc_video.py: 1080×1920, 30 fps, 79,33 s, áudio: -14.8 LUFS · pico -2.3 dBTP, fecho a partir de 75,47 s, "Sem problemas mensuráveis".
+bordas.py (regra nova): 2255 quadros, 1059 de TV, chassis entre 10 e 1070 px, quadros com TV cortada: 0.
+testes_tv.py: 30 quadros consecutivos distintos; determinístico; ~19 ms por quadro.
+A olho, 16 quadros do ficheiro final: TV inteira ou fora do quadro; carta/fichas e TV SAL sem interferência; fora do ar nos planos de sala; fecho preservado.
+Placa BINDER: posição testada só em prévia, com logo_mark.png. Não está no vídeo.

diff --git a/manaburn/PERFIL.md b/manaburn/PERFIL.md
@@ -44,8 +44,8 @@ Respostas à pergunta do comentário fixado (o histórico de 26/10 mostra coment
 ## Critérios de aceitação próprios
 
 - [ ] Gíria: máx. 2 por fala, entendida no Brasil inteiro, sem palavrão; bordões intactos.
-- [ ] Carta inteira na TV, também nos zooms; destaques alinhados ao texto.
-- [ ] TV SAL sem cortes nos zooms; putômetro com conta e fonte.
+- [ ] TV nunca cortada (chassis inteiro; `bordas.py`); carta inteira; destaques alinhados ao texto.
+- [ ] TV SAL legível; putômetro com conta e fonte.
 - [ ] "Comenta aí" na parada seca da música.
 - [ ] Vozes geradas no plano com licença comercial.
 

diff --git a/STATUS.md b/STATUS.md
@@ -54,7 +54,7 @@ Giro de domingo de 01/11 publicado (registado em `comum/historico.md`, 02/11). F
 
 ## Especial em espera de publicação
 
-`especiais/precon_em_jogo/`: vídeo final conferido (02/11), publicação prevista a 04/11/2026. Depende do fundador: ouvir, avisar @diegoalencard e publicar.
+`especiais/precon_em_jogo/`: vídeo final conferido (02/11), publicação prevista a 04/11/2026. Depende do fundador: enviar a logomarca oficial da TV (`manaburn/logo/binder_fabricante.png`), ouvir, avisar @diegoalencard e publicar.
 
 ## Próximo passo concreto
 
